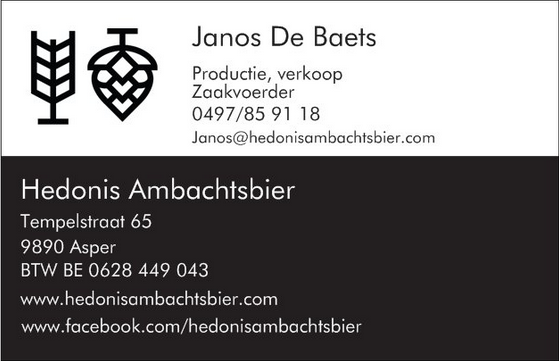
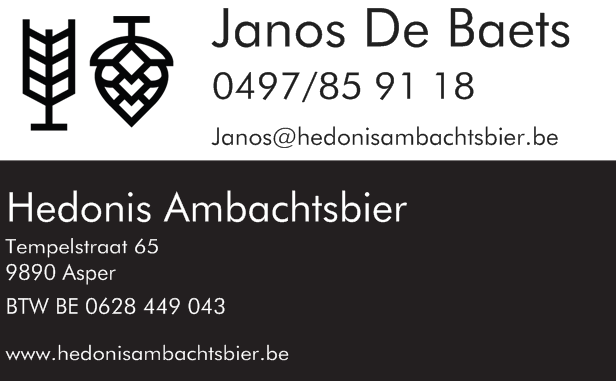
#27
Add buitenland,
News DESC
New visitekaartje

diff --git a/src/SiteBundle/Controller/HomeController.php b/src/SiteBundle/Controller/HomeController.php
@@ -36,7 +36,7 @@ class HomeController extends Controller
     }
     public function newsAction()
     {
-        $listArticles = $this->getDoctrine()->getRepository('SiteBundle:Article')->findall();
+        $listArticles = $this->getDoctrine()->getRepository('SiteBundle:Article')->findBy(array(),array('date' => 'DESC'));
 
         $numberarticles = count($listArticles);
 
@@ -69,8 +69,9 @@ class HomeController extends Controller
         $antwerpen = $this->getDoctrine()->getRepository('SiteBundle:Sales') ->antwerpen();
         $limburg = $this->getDoctrine()->getRepository('SiteBundle:Sales') ->limburg();
         $vlaams = $this->getDoctrine()->getRepository('SiteBundle:Sales') ->vlaams();
+        $andere = $this->getDoctrine()->getRepository('SiteBundle:Sales') ->andere();
 
-        $listSales = array('west'=> $west, 'oost' => $oost, 'antwerpen' => $antwerpen, 'limburg' => $limburg, 'vlaams' => $vlaams);
+        $listSales = array('west'=> $west, 'oost' => $oost, 'antwerpen' => $antwerpen, 'limburg' => $limburg, 'vlaams' => $vlaams, 'andere' => $andere);
 
 
         return $this->render('SiteBundle:Home:sales.html.twig',array(

diff --git a/src/SiteBundle/Repository/SalesRepository.php b/src/SiteBundle/Repository/SalesRepository.php
@@ -80,4 +80,18 @@ class SalesRepository extends \Doctrine\ORM\EntityRepository
 	    ->getResult()
 	  ;
 	}
+	public function buitenland()
+	{
+	  $qb = $this->createQueryBuilder('s');
+
+	  $qb->where('s.state = :state')
+	       ->setParameter('state', 'buitenland')
+	     ->orderBy('s.id', 'DESC')
+	  	;
+
+	  return $qb
+	    ->getQuery()
+	    ->getResult()
+	  ;
+	}
 }

diff --git a/src/SiteBundle/Form/SalesType.php b/src/SiteBundle/Form/SalesType.php
@@ -37,6 +37,7 @@ class SalesType extends AbstractType
                 'Vlaams-brabant' => 'vlaams-brabant',
                 'Waals-brabant' => 'waals-brabant',
                 'West-vlaanderen' => 'west-vlaanderen'
+                'Buitenland' => 'buitenland'
             ),'choices_as_values' => true))
         ;
     }
